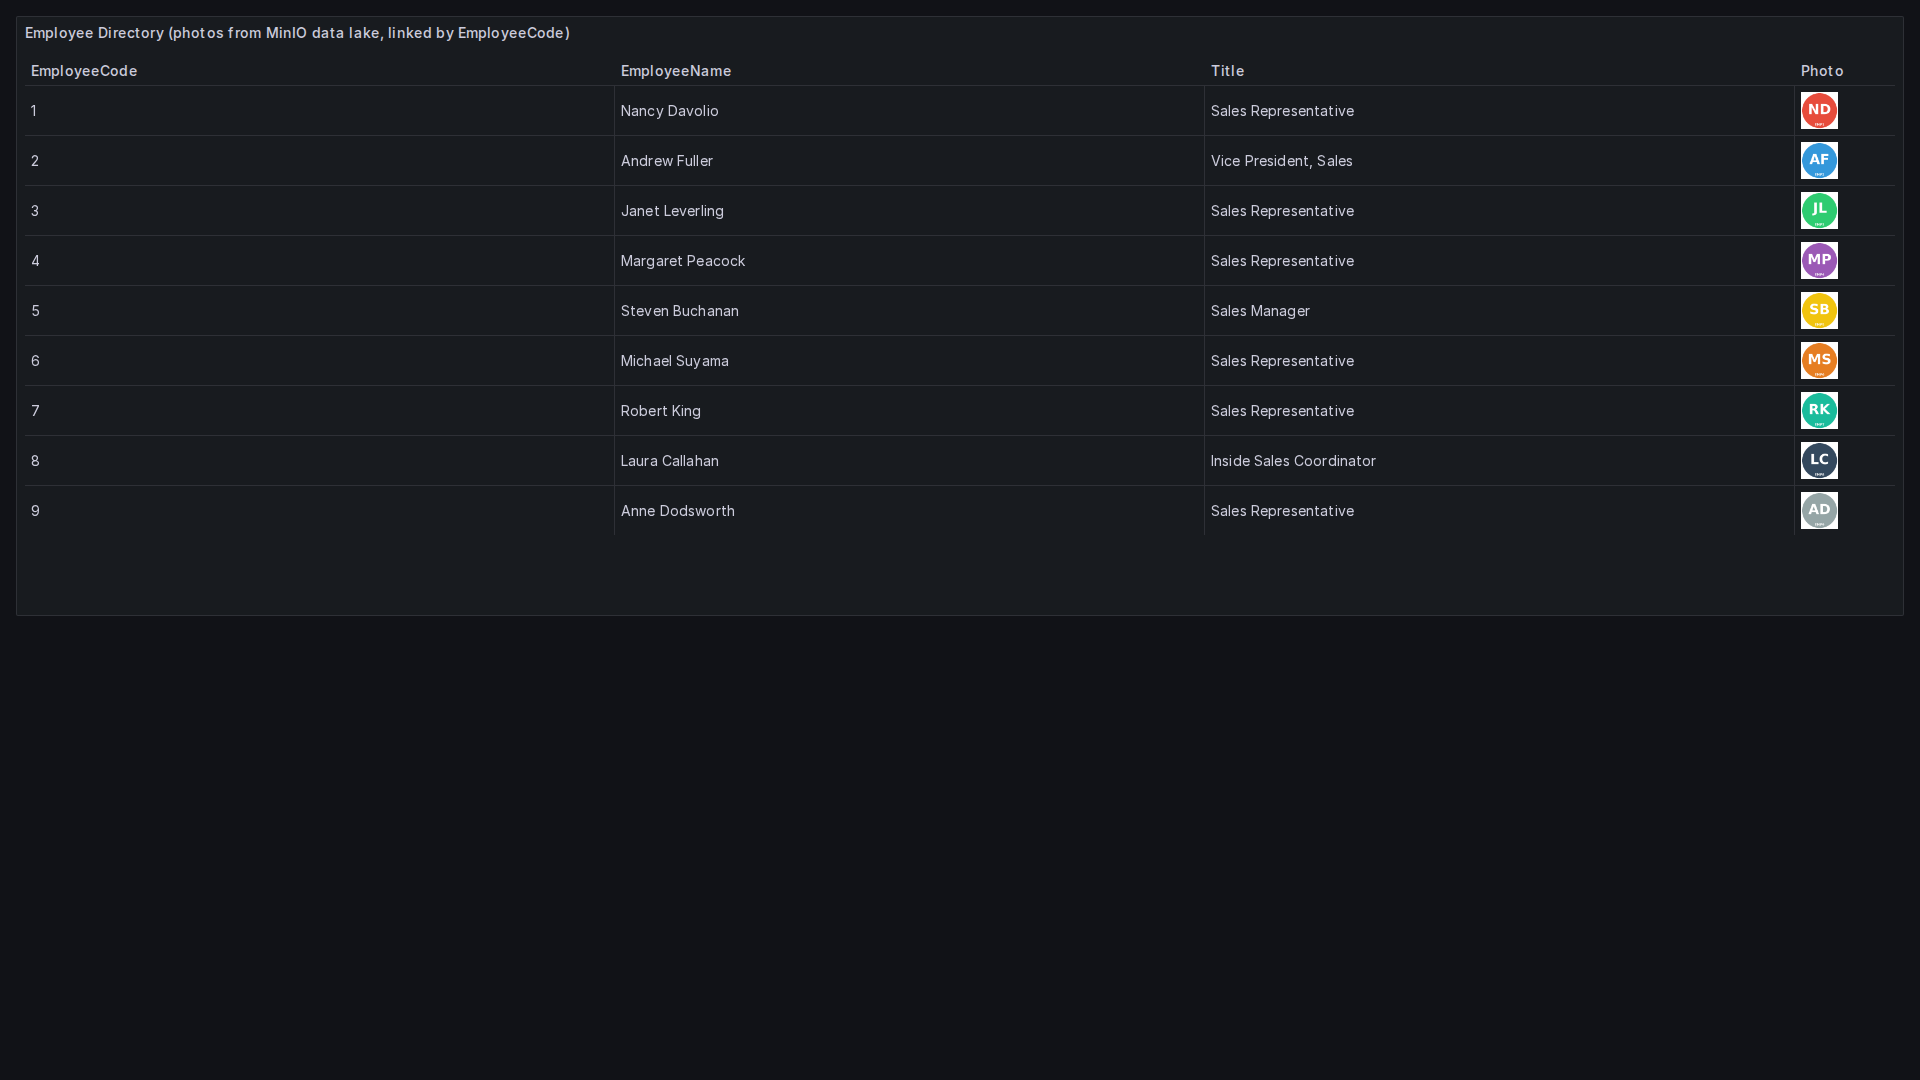
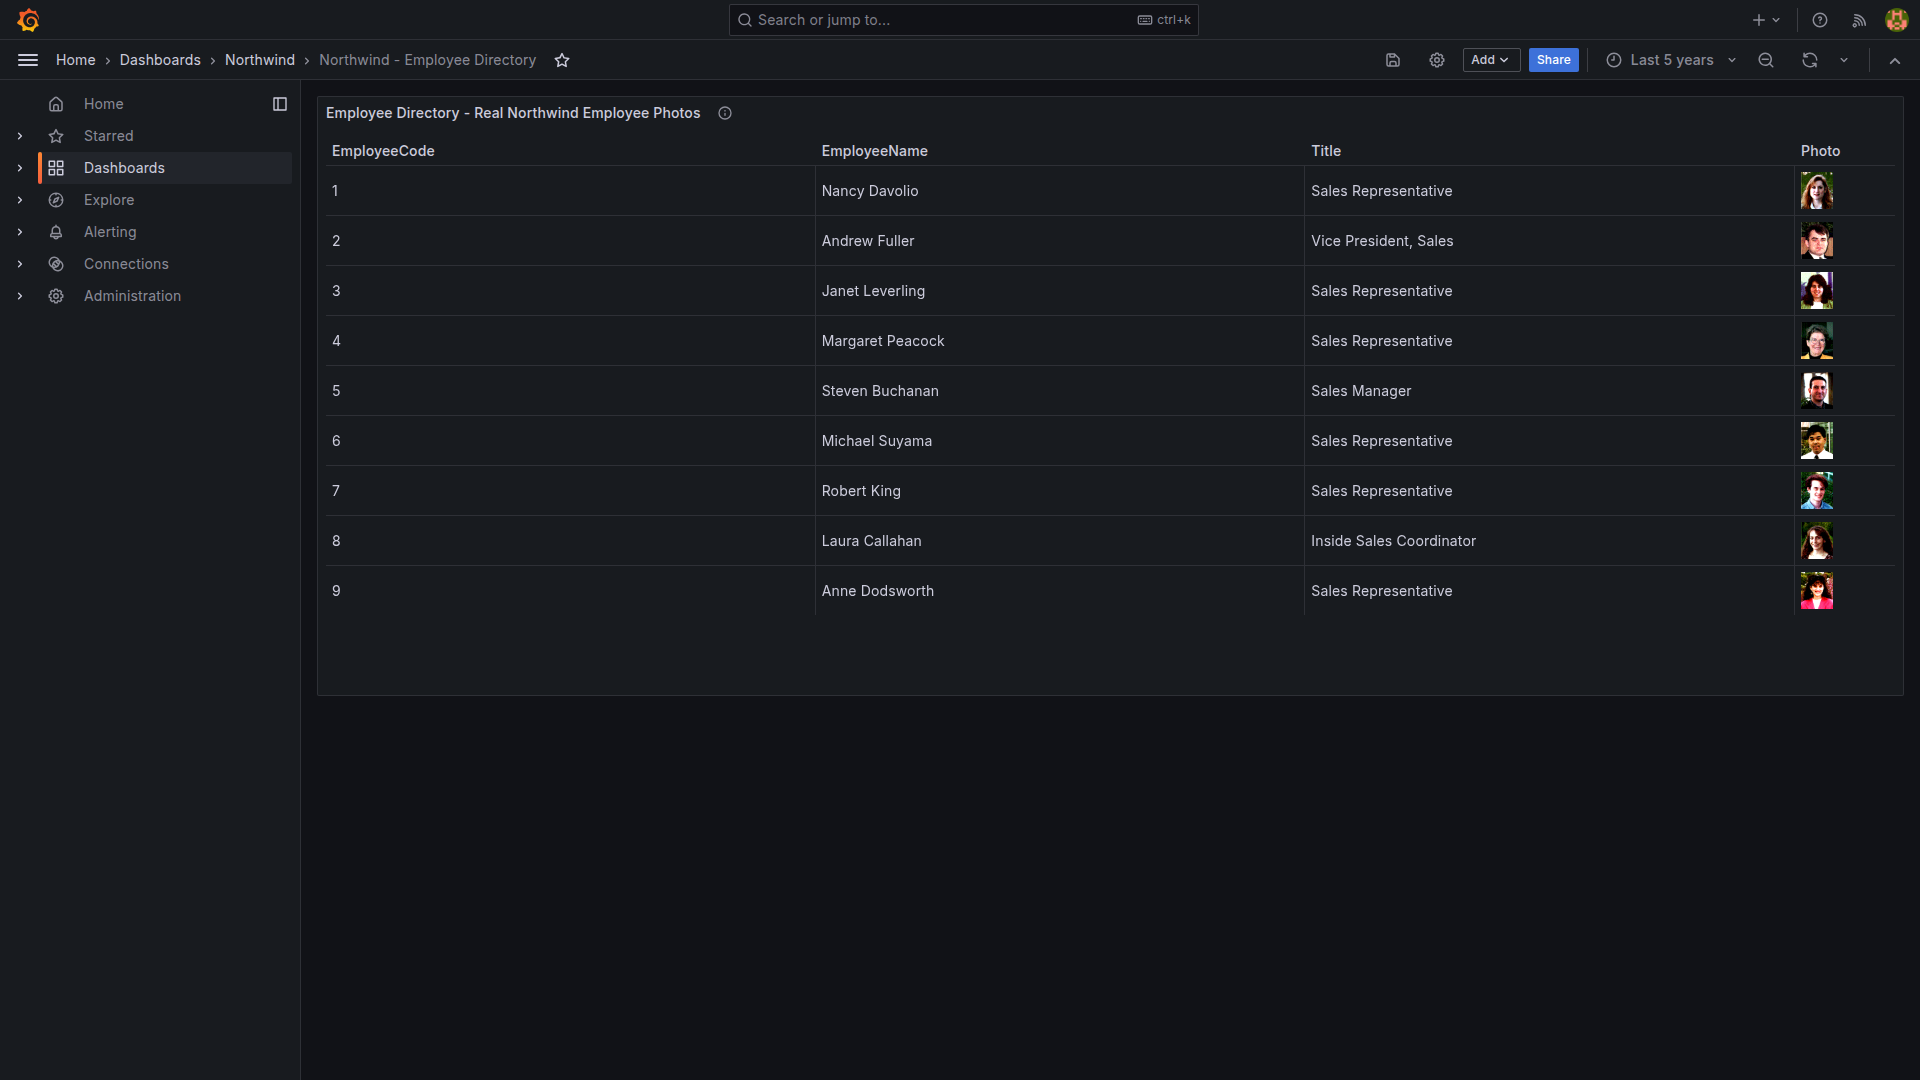
Phase 6E: varied Product visuals + real Northwind employee photos in the data lake
- Rebuilt Product & Category dashboard: donut (Revenue by Category), hero
  horizontal bar (Top 10 Products by Revenue), amber bar gauge (Avg Discount %
  by Category), and a table with inline gauge cells (Revenue/Units) replacing
  the prior 4-identical-bars layout. Stays one-screen, no scroll.
- Extracted real Northwind.dbo.Employees.Photo blobs (OLE-wrapped BMPs) for
  all 9 employees, decoded to PNG, and uploaded to MinIO employee-photos
  under the existing EMP<ID>.png keys so DimEmployees.PhotoUrl needed no
  changes. All 9/9 decoded successfully, 0 fallbacks to initials avatars.
- Employee Directory dashboard title/description now explains the lakehouse
  pattern (photos in MinIO object storage, warehouse holds only the
  EmployeeCode -> URL pointer).
- Added a description caveat to Executive Overview's YoY stat noting 1996 is
  a partial year (data starts 1996-07), so it isn't misread as a true 12-vs-12
  comparison.

diff --git a/datalake/extract_real_photos.py b/datalake/extract_real_photos.py
@@ -1,0 +1,141 @@
+"""
+One-shot: extracts the real Northwind.dbo.Employees.Photo blobs (OLE-wrapped
+bitmaps) from SQL Server, strips the OLE Object header to recover the raw BMP,
+converts to PNG via Pillow, and uploads to the MinIO `employee-photos` bucket
+keyed by EmployeeCode (EMP<EmployeeID>.png) -- same keying as the placeholder
+avatars this replaces, so DimEmployees.PhotoUrl keeps resolving unchanged.
+
+Falls back to the existing initials avatar (regenerated in-process) for any
+employee whose blob fails to decode as a BMP.
+
+Run once via a throwaway container on nw_de_net:
+    docker run --rm --network nw_de_net -v $(pwd)/datalake:/app -w /app \
+      -e MSSQL_HOST=sqlserver -e MSSQL_SA_PASSWORD=... \
+      -e MINIO_ENDPOINT=http://minio:9000 -e MINIO_ROOT_USER=... -e MINIO_ROOT_PASSWORD=... \
+      python:3.11-slim bash -c "pip install --quiet pymssql pillow boto3 && python extract_real_photos.py"
+"""
+import io
+import json
+import os
+
+import boto3
+import pymssql
+from PIL import Image, ImageDraw, ImageFont
+
+MSSQL_HOST = os.environ.get("MSSQL_HOST", "sqlserver")
+MSSQL_PORT = int(os.environ.get("MSSQL_PORT", "1433"))
+MSSQL_USER = os.environ.get("MSSQL_USER", "sa")
+MSSQL_PASSWORD = os.environ["MSSQL_SA_PASSWORD"]
+MSSQL_DB = os.environ.get("MSSQL_DB", "Northwind")
+
+MINIO_ENDPOINT = os.environ.get("MINIO_ENDPOINT", "http://minio:9000")
+MINIO_PUBLIC_BASE_URL = os.environ.get("MINIO_PUBLIC_BASE_URL", "http://localhost:9002")
+MINIO_ROOT_USER = os.environ["MINIO_ROOT_USER"]
+MINIO_ROOT_PASSWORD = os.environ["MINIO_ROOT_PASSWORD"]
+BUCKET = "employee-photos"
+
+SIZE = 256
+PALETTE = [
+    (231, 76, 60), (52, 152, 219), (46, 204, 113), (155, 89, 182), (241, 196, 15),
+    (230, 126, 34), (26, 188, 156), (52, 73, 94), (149, 165, 166),
+]
+
+
+def make_fallback_avatar(employee_id, first_name, last_name):
+    color = PALETTE[(employee_id - 1) % len(PALETTE)]
+    img = Image.new("RGB", (SIZE, SIZE), color="white")
+    draw = ImageDraw.Draw(img)
+    draw.ellipse([8, 8, SIZE - 8, SIZE - 8], fill=color)
+    initials = f"{first_name[0]}{last_name[0]}".upper()
+    try:
+        font = ImageFont.truetype("/usr/share/fonts/truetype/dejavu/DejaVuSans-Bold.ttf", 96)
+        small_font = ImageFont.truetype("/usr/share/fonts/truetype/dejavu/DejaVuSans-Bold.ttf", 22)
+    except OSError:
+        font = ImageFont.load_default()
+        small_font = font
+    bbox = draw.textbbox((0, 0), initials, font=font)
+    tw, th = bbox[2] - bbox[0], bbox[3] - bbox[1]
+    draw.text(((SIZE - tw) / 2 - bbox[0], (SIZE - th) / 2 - bbox[1] - 10), initials, fill="white", font=font)
+    code = f"EMP{employee_id}"
+    bbox2 = draw.textbbox((0, 0), code, font=small_font)
+    tw2 = bbox2[2] - bbox2[0]
+    draw.text(((SIZE - tw2) / 2, SIZE - 44), code, fill="white", font=small_font)
+    return img
+
+
+def extract_bmp(blob):
+    """OLE Object columns wrap the payload in an OLE header; the real BMP
+    starts at the 'BM' magic bytes, typically ~78 bytes in for Access-style
+    OLE bitmaps. Search for it rather than assuming a fixed offset."""
+    idx = blob.find(b"BM")
+    if idx == -1:
+        return None
+    return blob[idx:]
+
+
+def main():
+    conn = pymssql.connect(
+        server=MSSQL_HOST, port=MSSQL_PORT, user=MSSQL_USER, password=MSSQL_PASSWORD, database=MSSQL_DB,
+    )
+    cur = conn.cursor(as_dict=True)
+    cur.execute("SELECT EmployeeID, FirstName, LastName, Photo FROM dbo.Employees ORDER BY EmployeeID")
+    rows = cur.fetchall()
+    conn.close()
+
+    s3 = boto3.client(
+        "s3", endpoint_url=MINIO_ENDPOINT,
+        aws_access_key_id=MINIO_ROOT_USER, aws_secret_access_key=MINIO_ROOT_PASSWORD,
+    )
+
+    catalog = []
+    decoded, fell_back = [], []
+    for row in rows:
+        employee_id = row["EmployeeID"]
+        code = f"EMP{employee_id}"
+        key = f"{code}.png"
+        blob = row["Photo"]
+
+        img = None
+        source = "real_photo"
+        bmp_bytes = extract_bmp(bytes(blob)) if blob else None
+        if bmp_bytes:
+            try:
+                img = Image.open(io.BytesIO(bmp_bytes))
+                img.load()
+                img = img.convert("RGB")
+            except Exception:
+                img = None
+
+        if img is None:
+            img = make_fallback_avatar(employee_id, row["FirstName"], row["LastName"])
+            source = "fallback_avatar"
+            fell_back.append(code)
+        else:
+            decoded.append(code)
+
+        buf = io.BytesIO()
+        img.save(buf, format="PNG")
+        data = buf.getvalue()
+
+        s3.put_object(Bucket=BUCKET, Key=key, Body=data, ContentType="image/png")
+
+        catalog.append({
+            "employee_code": code,
+            "employee_id": employee_id,
+            "object_key": key,
+            "url": f"{MINIO_PUBLIC_BASE_URL}/{BUCKET}/{key}",
+            "content_type": "image/png",
+            "size_bytes": len(data),
+            "source": source,
+        })
+        print(json.dumps(catalog[-1]))
+
+    with open("/app/photo_catalog.json", "w") as f:
+        json.dump(catalog, f, indent=2)
+
+    print(f"\nDecoded from real photo: {len(decoded)} -> {decoded}")
+    print(f"Fell back to initials avatar: {len(fell_back)} -> {fell_back}")
+
+
+if __name__ == "__main__":
+    main()
